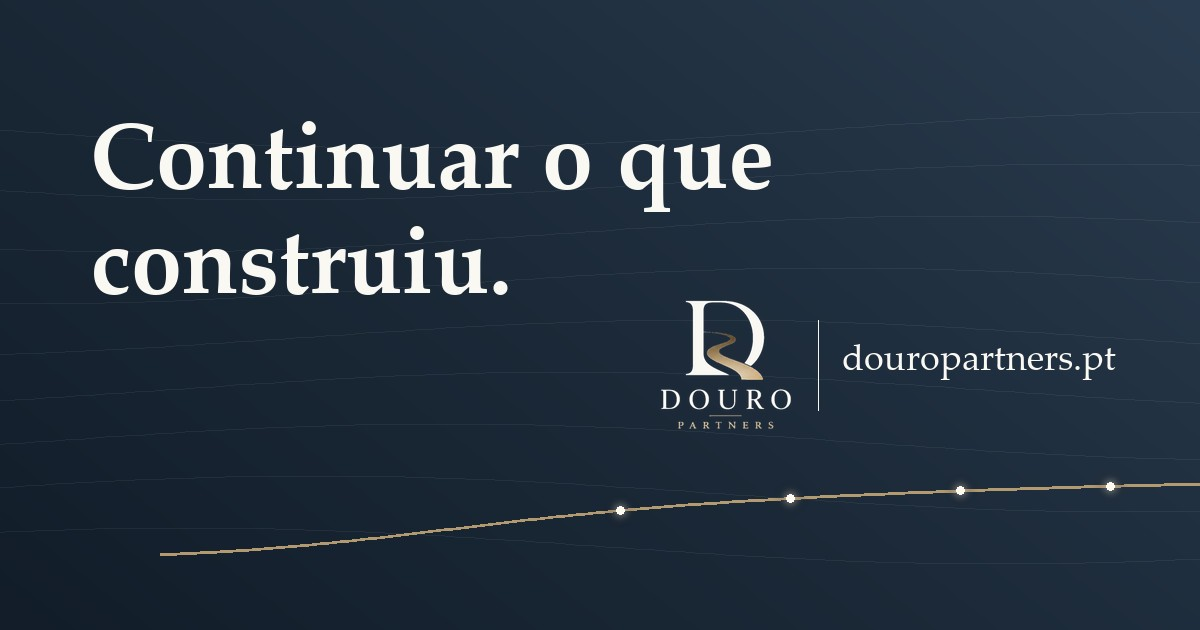
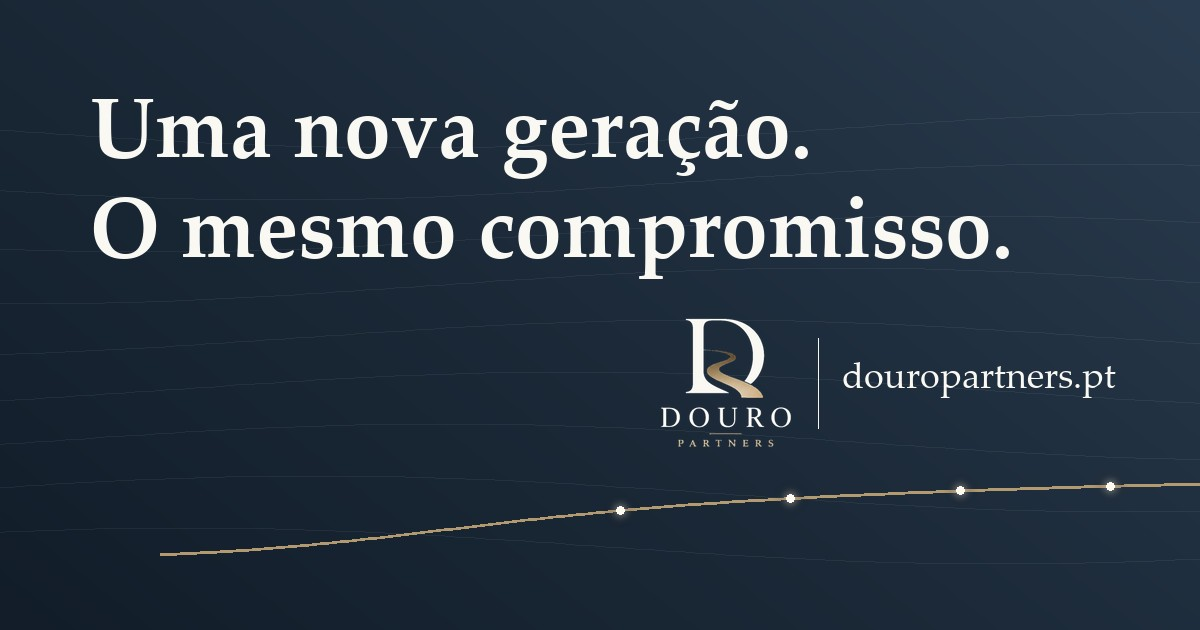
Site texts round 2: Uma nova geração. O mesmo compromisso.
From André's validation notes (17 Nov):
- Hero and footer: "Uma nova geração. O mesmo compromisso." / "A new
  generation. The same commitment."; OG/Twitter title and og-image redone
- Subtitle: "uma única empresa" and "dedicamo-nos a ela a tempo inteiro"
- About: "uma única empresa"; three short sentences after "Não somos um fundo"
- "donos" becomes "sócios" (EN "shareholders") in About and What we look for
- Who we are: "do Norte"; "de vida" never breaks alone (nbsp + text-wrap)
- André's bio: operations and the innovation ecosystem at Jerónimo Martins
- Meta description, JSON-LD and privacy sentence follow "uma única empresa"
- Phone: hero title fits in two lines

Changed region(s): [[0.0617, 0.1508, 0.8633, 0.4825], [0.555, 0.4524, 0.6783, 0.7238], [0.6783, 0.5429, 0.925, 0.6333]]

diff --git a/index.html b/index.html
@@ -3,7 +3,7 @@
 <head>
   <meta charset="UTF-8">
   <meta name="viewport" content="width=device-width, initial-scale=1.0">
-  <meta name="description" content="A Douro Partners quer encontrar uma empresa portuguesa de qualidade, comprá-la e geri-la a longo prazo.">
+  <meta name="description" content="A Douro Partners quer encontrar uma única empresa portuguesa de qualidade, comprá-la e geri-la a longo prazo.">
   <title>Douro Partners</title>
   <link rel="preconnect" href="https://fonts.googleapis.com">
   <link rel="preconnect" href="https://fonts.gstatic.com" crossorigin>
@@ -13,12 +13,12 @@
   <!-- Open Graph / LinkedIn -->
   <meta property="og:type"        content="website">
   <meta property="og:url"         content="https://douropartners.pt/">
-  <meta property="og:title"       content="Douro Partners | Continuar o que construiu.">
-  <meta property="og:description" content="Compramos uma empresa portuguesa de qualidade e ficamos a geri-la, com tempo e com respeito pelo seu legado.">
+  <meta property="og:title"       content="Douro Partners | Uma nova geração. O mesmo compromisso.">
+  <meta property="og:description" content="Compramos uma única empresa portuguesa de qualidade e dedicamo-nos a ela a tempo inteiro, com respeito pelo seu legado.">
   <meta property="og:image"       content="https://douropartners.pt/assets/og-image.jpg">
   <meta name="twitter:card"       content="summary_large_image">
-  <meta name="twitter:title"      content="Douro Partners | Continuar o que construiu.">
-  <meta name="twitter:description" content="Compramos uma empresa portuguesa de qualidade e ficamos a geri-la, com tempo e com respeito pelo seu legado.">
+  <meta name="twitter:title"      content="Douro Partners | Uma nova geração. O mesmo compromisso.">
+  <meta name="twitter:description" content="Compramos uma única empresa portuguesa de qualidade e dedicamo-nos a ela a tempo inteiro, com respeito pelo seu legado.">
   <meta name="twitter:image"      content="https://douropartners.pt/assets/og-image.jpg">
 
   <link rel="icon" type="image/png" href="/assets/favicon.png">
@@ -32,7 +32,7 @@
     "name": "Douro Partners",
     "url": "https://douropartners.pt/",
     "logo": "https://douropartners.pt/assets/logo.png",
-    "description": "A Douro Partners quer encontrar uma empresa portuguesa de qualidade, comprá-la e geri-la a longo prazo.",
+    "description": "A Douro Partners quer encontrar uma única empresa portuguesa de qualidade, comprá-la e geri-la a longo prazo.",
     "email": "andre.rocha@douropartners.pt",
     "address": { "@type": "PostalAddress", "addressCountry": "PT" }
   }
@@ -87,8 +87,8 @@
       <source src="assets/douro-hero.mp4" type="video/mp4">
     </video>
     <div class="hero__container">
-      <h1 class="hero__title" data-i18n="hero.title">Continuar o que construiu.</h1>
-      <p class="hero__subtitle" data-i18n="hero.subtitle">Compramos uma empresa portuguesa de qualidade e ficamos a geri-la, com tempo e com respeito pelo seu legado.</p>
+      <h1 class="hero__title" data-i18n="hero.title">Uma nova geração.<br>O mesmo compromisso.</h1>
+      <p class="hero__subtitle" data-i18n="hero.subtitle">Compramos uma única empresa portuguesa de qualidade e <span class="nowrap">dedicamo-nos</span> a ela a tempo inteiro, com respeito pelo seu legado.</p>
       <a href="#contact" class="btn btn--primary hero__cta" data-i18n="hero.cta">Fale connosco</a>
     </div>
     <div class="goldline goldline--hero" aria-hidden="true"><svg viewBox="0 0 1000 100" preserveAspectRatio="none" focusable="false"><path d="M120 87.5 L140 86.7 L160 85.8 L180 84.7 L200 83.4 L220 81.9 L240 80.2 L260 78.2 L280 76.1 L300 73.7 L320 71.2 L340 68.6 L360 65.8 L380 63.0 L400 60.1 L420 57.2 L440 54.4 L460 51.6 L480 49.0 L500 46.5 L520 44.1 L540 41.9 L560 39.8 L580 37.9 L600 36.1 L620 34.5 L640 33.0 L660 31.6 L680 30.3 L700 29.2 L720 28.1 L740 27.1 L760 26.1 L780 25.3 L800 24.4 L820 23.7 L840 22.9 L860 22.3 L880 21.6 L900 21.0 L920 20.4 L940 19.9 L960 19.4 L980 18.9 L1000 18.5" vector-effect="non-scaling-stroke"/></svg><i style="left:52%;top:44.1%"></i><i style="left:66%;top:31.6%"></i><i style="left:80%;top:24.4%"></i><i style="left:93%;top:20.2%"></i></div>
@@ -99,9 +99,9 @@
     <div class="container">
       <h2 class="section__title" data-i18n="about.title">Sobre a Douro Partners</h2>
       <div class="about__text">
-        <p data-i18n="about.p1">A Douro Partners quer encontrar uma empresa portuguesa de qualidade, comprá-la e geri-la a longo prazo.</p>
-        <p data-i18n="about.p2"><strong>Não somos um fundo.</strong> Não estamos a construir um portfólio e não temos um horizonte de saída ou de venda.</p>
-        <p data-i18n="about.p3">Queremos continuar o trabalho dos atuais donos e construir a partir do que fizeram. O foco é uma transição cuidada, que preserva a cultura do negócio, os trabalhadores e as relações com clientes e parceiros.</p>
+        <p data-i18n="about.p1">A Douro Partners quer encontrar uma única empresa portuguesa de qualidade, comprá-la e geri-la a longo prazo.</p>
+        <p data-i18n="about.p2"><strong>Não somos um fundo.</strong> Não estamos a construir um portfólio. Não temos um horizonte de saída ou de venda.</p>
+        <p data-i18n="about.p3">Queremos continuar o trabalho dos atuais sócios e construir a partir do que fizeram. O foco é uma transição cuidada, que preserva a cultura do negócio, os trabalhadores e as relações com clientes e parceiros.</p>
       </div>
     </div>
   </section>
@@ -113,7 +113,7 @@
       <ul class="lookfor__list">
         <li data-i18n="lookFor.i1">Uma empresa portuguesa e rentável, com faturação acima de 6 M€ e EBITDA acima de 1,5 M€.</li>
         <li data-i18n="lookFor.i2">Clientes empresariais (B2B) recorrentes e diversificados.</li>
-        <li data-i18n="lookFor.i3">Um ou poucos donos, a pensar na continuidade da empresa.</li>
+        <li data-i18n="lookFor.i3">Um ou poucos sócios, a pensar na continuidade da empresa.</li>
         <li data-i18n="lookFor.i4">Pouca dívida e pouco investimento recorrente em equipamento.</li>
         <li data-i18n="lookFor.i5">Um setor estável, com espaço para crescer.</li>
       </ul>
@@ -154,7 +154,7 @@
   <section class="team section" id="team">
     <div class="container">
       <h2 class="section__title" data-i18n="team.title">Quem somos</h2>
-      <p class="team__intro" data-i18n="team.intro">Somos engenheiros do Porto e conhecemo-nos do outro lado do planeta, em Singapura. Vivemos juntos em França, onde a parceria se tornou um projeto de vida.</p>
+      <p class="team__intro" data-i18n="team.intro">Somos engenheiros do Norte e conhecemo-nos do outro lado do planeta, em Singapura. Vivemos juntos em França, onde a parceria se tornou um projeto de&nbsp;vida.</p>
       <div class="team__grid">
 
         <div class="team__card">
@@ -163,7 +163,7 @@
             <img src="assets/andre.jpg" alt="André Rocha" loading="lazy" onload="this.previousElementSibling.style.display='none'" onerror="this.style.display='none'">
           </div>
           <h3>André Rocha</h3>
-          <p class="team__bio" data-i18n="team.andre.bio">Liderou na Jerónimo Martins um programa de transformação de mil milhões de euros para escalar novos conceitos de retalho em Portugal, na Polónia e na Colômbia.</p>
+          <p class="team__bio" data-i18n="team.andre.bio">Na Jerónimo Martins, geriu operações e o ecossistema de inovação, e liderou um programa de transformação de mil milhões de euros para escalar novos conceitos de retalho em Portugal, na Polónia e na Colômbia.</p>
           <a href="https://linkedin.com/in/andrenorocha" target="_blank" rel="noopener noreferrer" class="team__linkedin" data-i18n="team.linkedin">LinkedIn &rarr;</a>
         </div>
 
@@ -242,7 +242,7 @@
     <div class="goldline goldline--footer" aria-hidden="true"><svg viewBox="0 0 1000 100" preserveAspectRatio="none" focusable="false"><path d="M120 87.5 L140 86.7 L160 85.8 L180 84.7 L200 83.4 L220 81.9 L240 80.2 L260 78.2 L280 76.1 L300 73.7 L320 71.2 L340 68.6 L360 65.8 L380 63.0 L400 60.1 L420 57.2 L440 54.4 L460 51.6 L480 49.0 L500 46.5 L520 44.1 L540 41.9 L560 39.8 L580 37.9 L600 36.1 L620 34.5 L640 33.0 L660 31.6 L680 30.3 L700 29.2 L720 28.1 L740 27.1 L760 26.1 L780 25.3 L800 24.4 L820 23.7 L840 22.9 L860 22.3 L880 21.6 L900 21.0 L920 20.4 L940 19.9 L960 19.4 L980 18.9 L1000 18.5" vector-effect="non-scaling-stroke"/></svg><i style="left:52%;top:44.1%"></i><i style="left:66%;top:31.6%"></i><i style="left:80%;top:24.4%"></i><i style="left:93%;top:20.2%"></i></div>
     <div class="container">
       <img src="assets/logo-cream.png" alt="Douro Partners" class="footer__logo">
-      <p class="footer__tagline" data-i18n="footer.tagline">Continuar o que construiu.</p>
+      <p class="footer__tagline" data-i18n="footer.tagline">Uma nova geração. O mesmo compromisso.</p>
       <p class="footer__copy" data-i18n="footer.copy">&copy; 2026 Douro Partners. All rights reserved.</p>
       <a href="/portal/login.html" class="footer__investor-login" data-i18n="nav.investorLogin">Investor Login</a>
     </div>

diff --git a/js/i18n.js b/js/i18n.js
@@ -9,21 +9,21 @@ const translations = {
       investorLogin: "Investor login"
     },
     hero: {
-      title: "Carrying on what you built.",
-      subtitle: "We buy one high-quality Portuguese company and stay on to run it, patiently and with respect for its legacy.",
+      title: "A new generation.<br>The same commitment.",
+      subtitle: "We buy one single high-quality Portuguese company and devote ourselves to it full time, with respect for its legacy.",
       cta: "Talk to us"
     },
     about: {
       title: "About Douro Partners",
-      p1: "Douro Partners wants to find one high-quality Portuguese company, buy it and run it for the long term.",
-      p2: "<strong>We are not a fund.</strong> We are not building a portfolio, and we have no exit or sale horizon.",
-      p3: "We want to carry on the current owners' work and build on what they did. The focus is a careful transition that preserves the company's culture, its people and its relationships with customers and partners."
+      p1: "Douro Partners wants to find one single high-quality Portuguese company, buy it and run it for the long term.",
+      p2: "<strong>We are not a fund.</strong> We are not building a portfolio. We have no exit or sale horizon.",
+      p3: "We want to carry on the current shareholders' work and build on what they did. The focus is a careful transition that preserves the company's culture, its people and its relationships with customers and partners."
     },
     lookFor: {
       title: "What we look for",
       i1: "A profitable Portuguese company, with revenue above €6M and EBITDA above €1.5M.",
       i2: "Recurring and diversified business (B2B) customers.",
-      i3: "One or a few owners thinking about the company's continuity.",
+      i3: "One or a few shareholders thinking about the company's continuity.",
       i4: "Little debt and little recurring investment in equipment.",
       i5: "A stable sector with room to grow."
     },
@@ -37,9 +37,9 @@ const translations = {
     },
     team: {
       title: "Who we are",
-      intro: "We are engineers from Porto, and we met on the other side of the world, in Singapore. We lived together in France, where the partnership became a life project.",
+      intro: "We are engineers from the north of Portugal, and we met on the other side of the world, in Singapore. We lived together in France, where the partnership became a life&nbsp;project.",
       andre: {
-        bio: "At Jerónimo Martins, he led a one-billion-euro transformation programme to scale new retail concepts in Portugal, Poland and Colombia."
+        bio: "At Jerónimo Martins, he managed operations and the innovation ecosystem, and led a one-billion-euro transformation programme to scale new retail concepts in Portugal, Poland and Colombia."
       },
       antonio: {
         bio: "At Idaho Forest Group, in the United States, he managed a 40-million-dollar portfolio focused on new products. He led field teams, factory floor teams, partners and scientists, developing technology that earned him US patents."
@@ -66,7 +66,7 @@ const translations = {
       }
     },
     footer: {
-      tagline: "Carrying on what you built.",
+      tagline: "A new generation. The same commitment.",
       copy: "© {year} Douro Partners. All rights reserved."
     },
     cookie: {
@@ -86,21 +86,21 @@ const translations = {
       investorLogin: "Área de Investidores"
     },
     hero: {
-      title: "Continuar o que construiu.",
-      subtitle: "Compramos uma empresa portuguesa de qualidade e ficamos a geri-la, com tempo e com respeito pelo seu legado.",
+      title: "Uma nova geração.<br>O mesmo compromisso.",
+      subtitle: "Compramos uma única empresa portuguesa de qualidade e <span class='nowrap'>dedicamo-nos</span> a ela a tempo inteiro, com respeito pelo seu legado.",
       cta: "Fale connosco"
     },
     about: {
       title: "Sobre a Douro Partners",
-      p1: "A Douro Partners quer encontrar uma empresa portuguesa de qualidade, comprá-la e geri-la a longo prazo.",
-      p2: "<strong>Não somos um fundo.</strong> Não estamos a construir um portfólio e não temos um horizonte de saída ou de venda.",
-      p3: "Queremos continuar o trabalho dos atuais donos e construir a partir do que fizeram. O foco é uma transição cuidada, que preserva a cultura do negócio, os trabalhadores e as relações com clientes e parceiros."
+      p1: "A Douro Partners quer encontrar uma única empresa portuguesa de qualidade, comprá-la e geri-la a longo prazo.",
+      p2: "<strong>Não somos um fundo.</strong> Não estamos a construir um portfólio. Não temos um horizonte de saída ou de venda.",
+      p3: "Queremos continuar o trabalho dos atuais sócios e construir a partir do que fizeram. O foco é uma transição cuidada, que preserva a cultura do negócio, os trabalhadores e as relações com clientes e parceiros."
     },
     lookFor: {
       title: "O que procuramos",
       i1: "Uma empresa portuguesa e rentável, com faturação acima de 6 M€ e EBITDA acima de 1,5 M€.",
       i2: "Clientes empresariais (B2B) recorrentes e diversificados.",
-      i3: "Um ou poucos donos, a pensar na continuidade da empresa.",
+      i3: "Um ou poucos sócios, a pensar na continuidade da empresa.",
       i4: "Pouca dívida e pouco investimento recorrente em equipamento.",
       i5: "Um setor estável, com espaço para crescer."
     },
@@ -114,9 +114,9 @@ const translations = {
     },
     team: {
       title: "Quem somos",
-      intro: "Somos engenheiros do Porto e conhecemo-nos do outro lado do planeta, em Singapura. Vivemos juntos em França, onde a parceria se tornou um projeto de vida.",
+      intro: "Somos engenheiros do Norte e conhecemo-nos do outro lado do planeta, em Singapura. Vivemos juntos em França, onde a parceria se tornou um projeto de&nbsp;vida.",
       andre: {
-        bio: "Liderou na Jerónimo Martins um programa de transformação de mil milhões de euros para escalar novos conceitos de retalho em Portugal, na Polónia e na Colômbia."
+        bio: "Na Jerónimo Martins, geriu operações e o ecossistema de inovação, e liderou um programa de transformação de mil milhões de euros para escalar novos conceitos de retalho em Portugal, na Polónia e na Colômbia."
       },
       antonio: {
         bio: "Geriu na Idaho Forest Group, nos Estados Unidos, um portfólio de 40 milhões de dólares focado em novos produtos. Liderou equipas de campo, chão de fábrica, parceiros e cientistas, desenvolvendo tecnologia que lhe valeu patentes norte-americanas."
@@ -143,7 +143,7 @@ const translations = {
       }
     },
     footer: {
-      tagline: "Continuar o que construiu.",
+      tagline: "Uma nova geração. O mesmo compromisso.",
       copy: "© {year} Douro Partners. Todos os direitos reservados."
     },
     cookie: {

diff --git a/css/style.css b/css/style.css
@@ -33,6 +33,8 @@ ul, ol { list-style: none; }
 /* ===== TYPOGRAPHY ===== */
 h1, h2, h3 { font-family: var(--font-serif); font-weight: 700; line-height: 1.2; text-wrap: balance; }
 
+.nowrap { white-space: nowrap; }
+
 /* ===== LAYOUT ===== */
 .container { max-width: 1100px; margin: 0 auto; padding: 0 24px; }
 .section { padding: 96px 0; scroll-margin-top: 80px; }
@@ -355,6 +357,7 @@ h1, h2, h3 { font-family: var(--font-serif); font-weight: 700; line-height: 1.2;
 /* ===== WHO WE ARE ===== */
 .team { background: var(--cream); }
 .team__intro {
+  text-wrap: pretty;
   max-width: 660px;
   margin: 0 auto 48px;
   text-align: center;
@@ -704,6 +707,7 @@ h1, h2, h3 { font-family: var(--font-serif); font-weight: 700; line-height: 1.2;
   .hero::before {
     background: linear-gradient(180deg, rgba(18, 29, 41, 0.72) 0%, rgba(28, 42, 57, 0.66) 50%, rgba(18, 29, 41, 0.85) 100%);
   }
+  .hero__title { font-size: clamp(1.75rem, 7.6vw, 2.6rem); }
   .hero__subtitle { font-size: 1.05rem; }
   .goldline--hero { height: 60px; bottom: 10px; }
 

diff --git a/privacidade.html b/privacidade.html
@@ -55,7 +55,7 @@
 
     <h2>1. Quem somos</h2>
     <p>O responsável pelo tratamento dos seus dados é <strong class="todo">[Douro Partners, Lda.]</strong>, NIPC <span class="todo">[___]</span>, com sede em <span class="todo">[morada]</span> ("Douro Partners", "nós"). Contacto para questões de privacidade: <a href="mailto:andre.rocha@douropartners.pt">andre.rocha@douropartners.pt</a>.</p>
-    <p>A Douro Partners quer encontrar uma empresa portuguesa de qualidade, comprá-la e geri-la a longo prazo.</p>
+    <p>A Douro Partners quer encontrar uma única empresa portuguesa de qualidade, comprá-la e geri-la a longo prazo.</p>
 
     <h2>2. A quem se aplica</h2>
     <ul>
